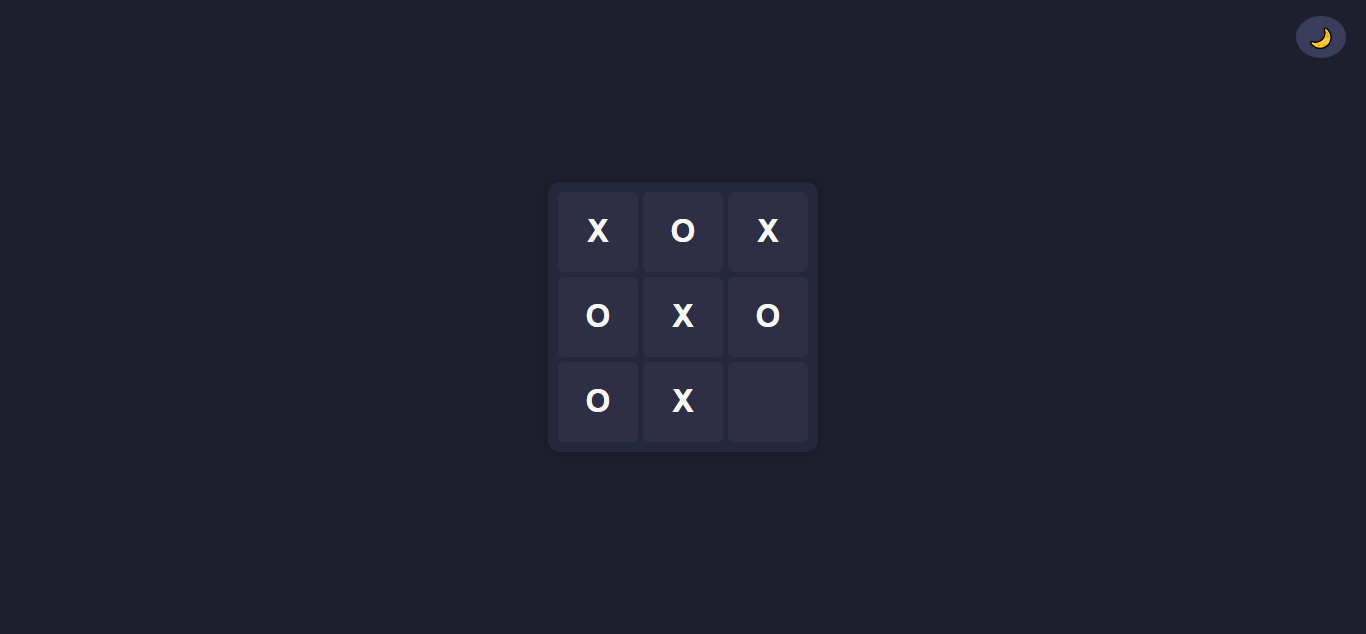
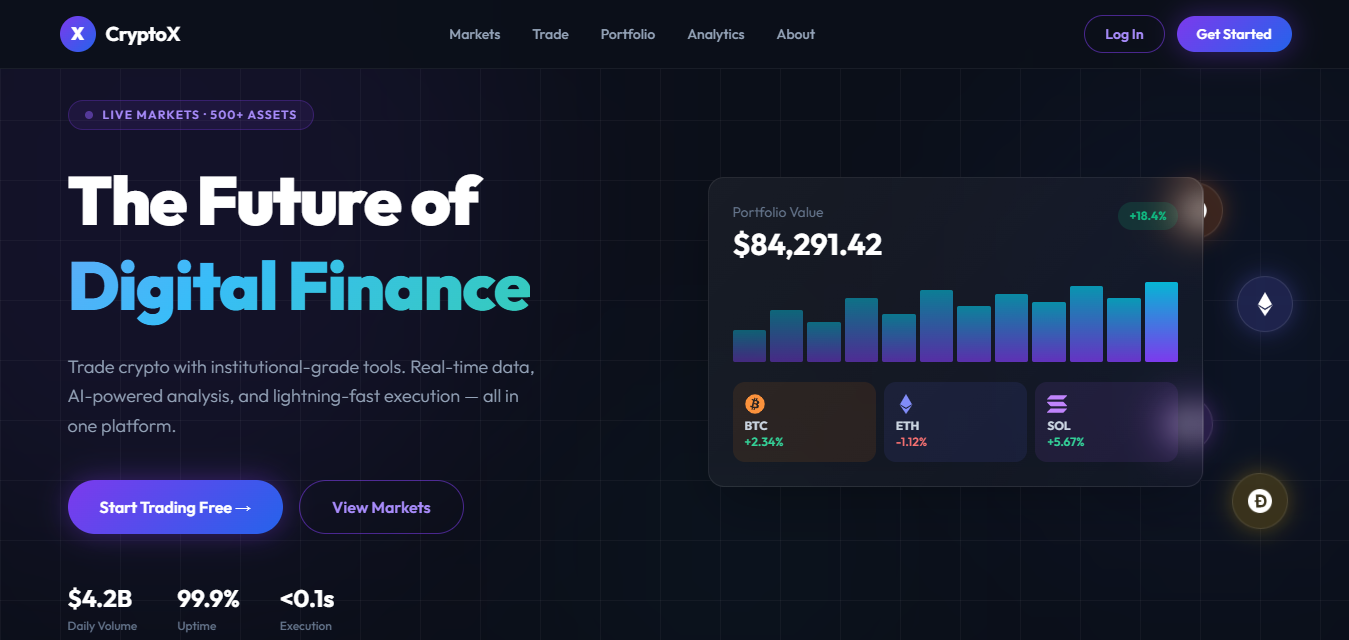
Some changes

diff --git a/client/index.html b/client/index.html
@@ -370,26 +370,26 @@
             <!-- Card 1 -->
             <div class="projects-box">
                 <div class="proj-img-wrap">
-                    <img src="assets/project-1.png" alt="Currency Converter">
+                    <img src="assets/project-1.png" alt="Zentry">
                 </div>
                 <div class="proj-info">
                     <div class="proj-info-top">
-                        <h4>Currency Converter</h4>
+                        <h4>Zentry</h4>
                         <div class="proj-icon-btns">
-                            <a href="https://github.com/MuhammadWaris-55/Currency-Converter" target="_blank" class="proj-icon-btn" title="View on GitHub">
+                            <a href="https://github.com/MuhammadWaris-55/Gaming-Website" target="_blank" class="proj-icon-btn" title="View on GitHub">
                                 <i class="fa-brands fa-github"></i>
                             </a>
-                            <a href="#" target="_blank" class="proj-icon-btn proj-icon-btn--live" title="Live Demo">
+                            <a href="https://muhammadwaris-55.github.io/Gaming-Website/" target="_blank" class="proj-icon-btn proj-icon-btn--live" title="Live Demo">
                                 <i class="fa-solid fa-arrow-up-right-from-square"></i>
                             </a>
                         </div>
                     </div>
-                    <p>Converts currencies instantly with a clean and responsive interface using live exchange rates.</p>
+                    <p>A modern gaming landing page with immersive GSAP animations and responsive design.</p>
                     <div class="proj-chips">
-                        <span class="proj-chip">HTML5</span>
-                        <span class="proj-chip">CSS3</span>
-                        <span class="proj-chip">JavaScript</span>
-                        <span class="proj-chip">API</span>
+                        <span class="proj-chip">REACT</span>
+                        <span class="proj-chip">TAILWIND</span>
+                        <span class="proj-chip">GSAP</span>
+                        <span class="proj-chip">VITE</span>
                     </div>
                 </div>
             </div>
@@ -397,25 +397,25 @@
             <!-- Card 2 -->
             <div class="projects-box">
                 <div class="proj-img-wrap">
-                    <img src="assets/project-2.png" alt="Tic Tac Toe">
+                    <img src="assets/project-2.png" alt="CryptoX">
                 </div>
                 <div class="proj-info">
                     <div class="proj-info-top">
-                        <h4>Tic Tac Toe</h4>
+                        <h4>CryptoX</h4>
                         <div class="proj-icon-btns">
-                            <a href="https://github.com/MuhammadWaris-55/Tic-Tac-Toe" target="_blank" class="proj-icon-btn" title="View on GitHub">
+                            <a href="https://github.com/MuhammadWaris-55/CryptoX" target="_blank" class="proj-icon-btn" title="View on GitHub">
                                 <i class="fa-brands fa-github"></i>
                             </a>
-                            <a href="#" target="_blank" class="proj-icon-btn proj-icon-btn--live" title="Live Demo">
+                            <a href="https://muhammadwaris-55.github.io/CryptoX/" target="_blank" class="proj-icon-btn proj-icon-btn--live" title="Live Demo">
                                 <i class="fa-solid fa-arrow-up-right-from-square"></i>
                             </a>
                         </div>
                     </div>
-                    <p>Classic two-player Tic Tac Toe game with smooth interactions and win detection logic.</p>
+                    <p>A modern crypto landing page built with React and Tailwind CSS featuring live coin cards, animated stats, and futuristic UI design.</p>
                     <div class="proj-chips">
-                        <span class="proj-chip">HTML5</span>
-                        <span class="proj-chip">CSS3</span>
-                        <span class="proj-chip">JavaScript</span>
+                        <span class="proj-chip">REACT</span>
+                        <span class="proj-chip">TAILWIND</span>
+                        <span class="proj-chip">VITE</span>
                     </div>
                 </div>
             </div>
@@ -423,25 +423,25 @@
             <!-- Card 3 -->
             <div class="projects-box">
                 <div class="proj-img-wrap">
-                    <img src="assets/project-3.png" alt="Roll The Dice">
+                    <img src="assets/project-3.png" alt="FitCore">
                 </div>
                 <div class="proj-info">
                     <div class="proj-info-top">
-                        <h4>Roll The Dice</h4>
+                        <h4>FitCore</h4>
                         <div class="proj-icon-btns">
-                            <a href="https://github.com/MuhammadWaris-55/Roll-The-Dice" target="_blank" class="proj-icon-btn" title="View on GitHub">
+                            <a href="https://github.com/MuhammadWaris-55/Gym-Landing-Page" target="_blank" class="proj-icon-btn" title="View on GitHub">
                                 <i class="fa-brands fa-github"></i>
                             </a>
-                            <a href="#" target="_blank" class="proj-icon-btn proj-icon-btn--live" title="Live Demo">
+                            <a href="https://muhammadwaris-55.github.io/Gym-Landing-Page/" target="_blank" class="proj-icon-btn proj-icon-btn--live" title="Live Demo">
                                 <i class="fa-solid fa-arrow-up-right-from-square"></i>
                             </a>
                         </div>
                     </div>
-                    <p>Generates random dice rolls with animated visuals and an exciting interactive experience.</p>
+                    <p>A modern, fully responsive gym landing page built with React and Tailwind CSS featuring a clean UI and complete fitness sections.</p>
                     <div class="proj-chips">
-                        <span class="proj-chip">HTML5</span>
-                        <span class="proj-chip">CSS3</span>
-                        <span class="proj-chip">JavaScript</span>
+                     <span class="proj-chip">REACT</span>
+                        <span class="proj-chip">TAILWIND</span>
+                        <span class="proj-chip">VITE</span>
                     </div>
                 </div>
             </div>